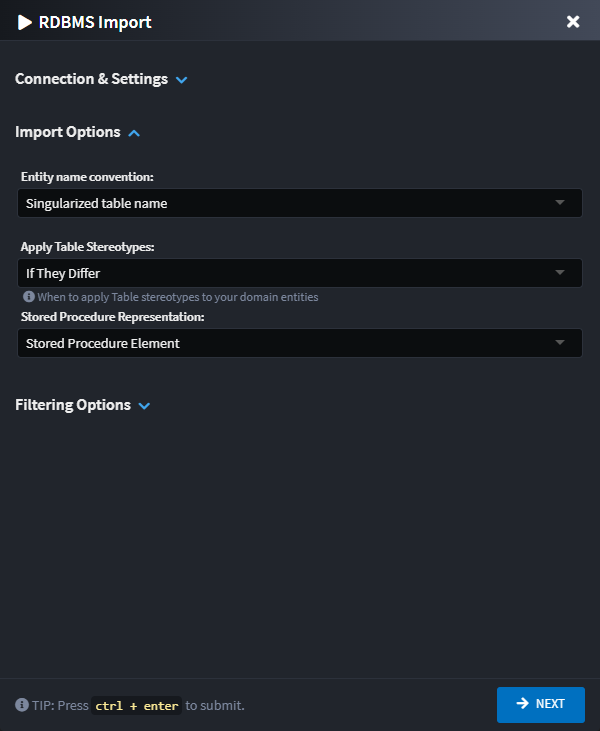
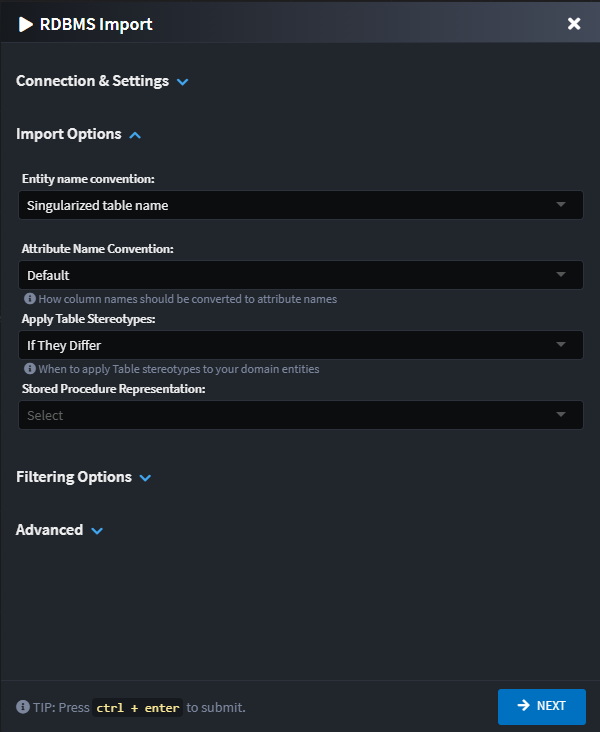
Updated docs

diff --git a/Modules/Intent.Modules.Rdbms.Importer/docs/README.md b/Modules/Intent.Modules.Rdbms.Importer/docs/README.md
@@ -12,7 +12,9 @@ Selecting this option will provide you with the following dialog:
 
 ![Database Import dialog](images/db-import-dialog.png)
 
-The dialog is organized into collapsible sections for a better user experience:
+> [!NOTE]
+> 
+> The dialog is organized into **collapsible sections** for a better user experience.
 
 ### Connection & Settings Section
 
@@ -57,7 +59,7 @@ This setting controls the naming convention of the entities which will be create
 This setting controls how database column names are converted to attribute names in the Domain Designer.
 
 - **Default** - Column names will be converted to PascalCase format. e.g. `FIRST_NAME` -> `FirstName`.
-- **Column name, as-is** - Attribute names will match the column names exactly as they appear in the database. e.g. `FIRST_NAME` -> `FIRST_NAME`.
+- **Column name, as is** - Attribute names will match the column names exactly as they appear in the database. e.g. `FIRST_NAME` -> `FIRST_NAME`.
 
 #### Apply Table Stereotypes
 
@@ -82,13 +84,13 @@ Choose between using Repository Elements and Repository Operations to represent 
 
 ### Filtering Options Section
 
+![Import Filtering](images/db-import-dialog-import-filtering.png)
+
 #### Include Indexes
 
 When checked, the importer will include database indexes in the import. Indexes are represented as stereotypes on the domain entities and their attributes.
 
 #### Import Filter File
-
-![Import Filtering](images/db-import-dialog-import-filtering.png)
 
 Specify a JSON file path **(that may be a relative file path to the Package file being imported into)** with a file browser dialog that assists with importing only certain objects from the database.
 
@@ -97,6 +99,8 @@ The import filter JSON file will be automatically updated with settings chosen o
 For details on the format of this file, refer to the [Filter File Structure](#filter-file-structure) section of this document.
 
 ### Advanced Section
+
+![Advanced](images/db-import-dialog-import-advanced.png)
 
 The Advanced section contains options for fine-tuning the import behavior:
 
@@ -155,9 +159,6 @@ The filter file should follow this JSON structure:
 ```json
 {
   "filter_type": "include",
-  "schemas": [
-    "dbo"
-  ],
   "include_dependant_tables": true,
   "include_tables": [
     {
@@ -221,5 +222,6 @@ By default, if a qualifying table has a trigger, it will be imported and modeled
 
 ![Trigger Modelling](images/trigger-import.png)
 
-> [!NOTE]  
+> [!NOTE]
+> 
 > The actual `trigger` implementation is not modeled in the `Domain Designer`. The `trigger` stereotype is used only to mark to the underlying provider (specifically, Entity Framework Core) that the table has an existing trigger. This allows Entity Framework to correctly generate the appropriate SQL statements.
